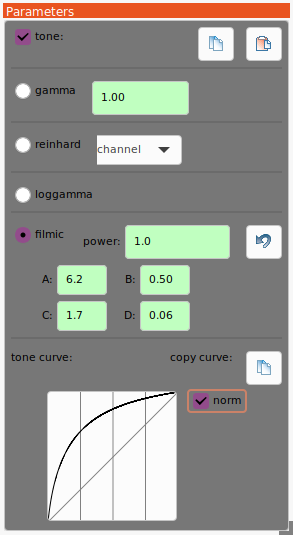
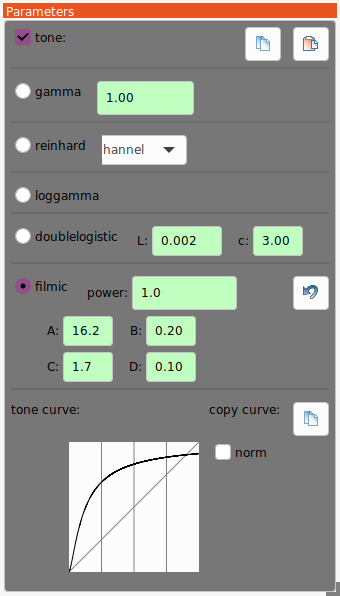
doc: add doublelogistic to help file

Changed region(s): [[0.0, 0.0, 1.0, 1.0]]

diff --git a/doc/tone.html b/doc/tone.html
@@ -8,11 +8,19 @@ the right place.</p>
 
 <p>Available tone operators:
 <ul>
-<li>gamma: The same function as in the original gamma tool, which will eventually be removed.  Default: 1.0, or no-change.</li>
-<li>reinhart: Applies the simple Reinhart function, val / (1-val), to either the individual channels, or as a computed 
+<li><b>gamma:</b> The same function as in the original gamma tool, which will eventually be removed.  Default: 1.0, or no-change.</li>
+<li><b>reinhart:</b> Applies the simple Reinhart function, val / (1-val), to either the individual channels, or as a computed 
 change to the luminance of each pixel.  Default: channel.</li>
-<li>loggamma: The HEVC version of the ARIB STD-B67 algorithm, as defined in https://en.wikipedia.org/wiki/Hybrid_Log-Gamma.</li>
-<li>filmic: The filmic algorithm is the original one, attributed to HP Duiker, copied from John Hable's blog: <pre>
+<li><b>loggamma:</b> The HEVC version of the ARIB STD-B67 algorithm, as defined in <a href=https://en.wikipedia.org/wiki/Hybrid_Log-Gamma>https://en.wikipedia.org/wiki/Hybrid_Log-Gamma</a></li>
+<li><b>doublelogistic:</b>This is a filmic-sort of curve, the toe provided by one logistic function, the mid-part and upper
+roll-off provided by another logistic function.  Two parameters:
+<ul>
+	<li>L: Scales both functions and is the point where the two curves meet.  Use this parameter to place the toe.</li>
+	<li>c: Sets the steepness of the middle part of both curves.  Use this parameter to lift/lower the image brightness.</li>
+</ul>
+The function description can be found at <a href=https://discuss.pixls.us/t/new-sigmoid-scene-to-display-mapping/22635/76>https://discuss.pixls.us/t/new-sigmoid-scene-to-display-mapping/22635/76</a></li>
+
+<li><b>filmic:</b> The filmic algorithm is the original one, attributed to HP Duiker, copied from John Hable's blog: <pre>
 R(x) = pow((x(6.2x+.5))/(x(6.2x+1.7)+0.06),2.2)
 </pre>  
 rawproc parameterizes the coefficients as follows: 
